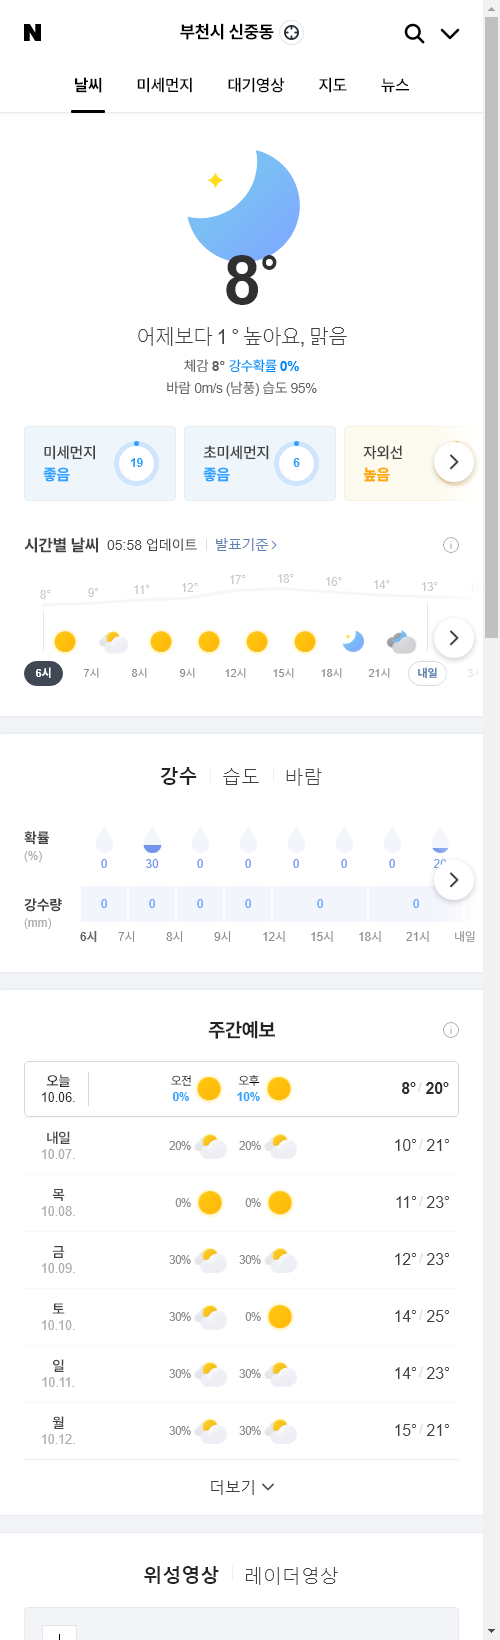
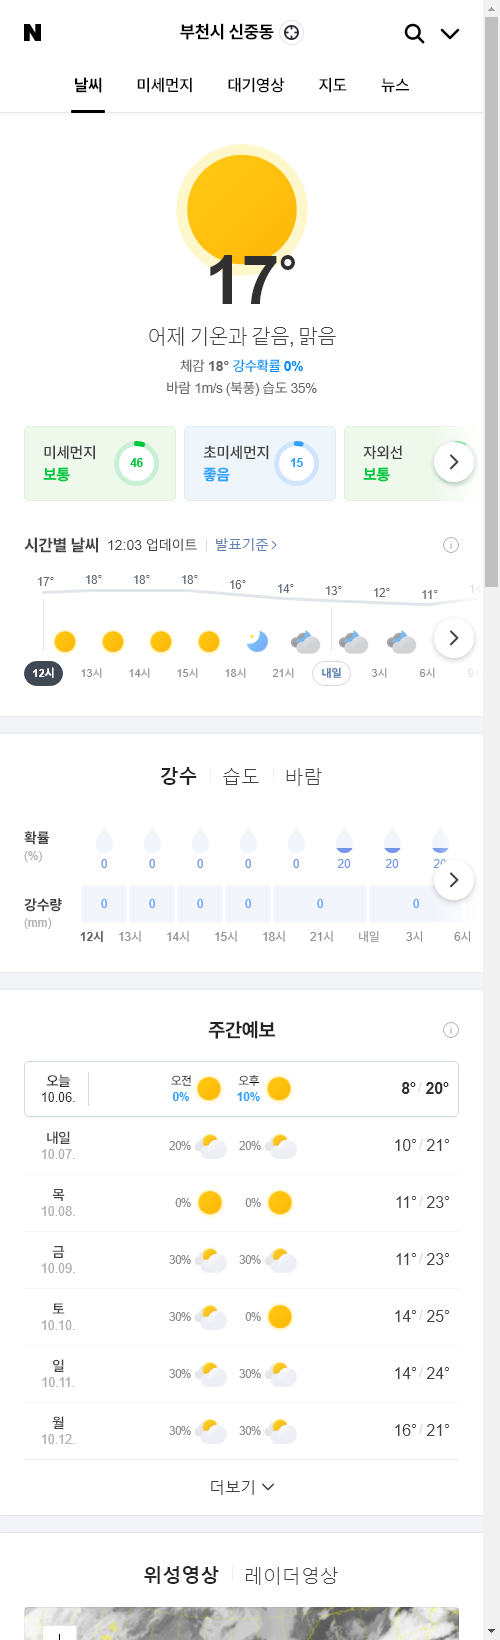
update result

diff --git a/README.md b/README.md
@@ -1,13 +1,13 @@
-##  2020-10-06 06:06:27   화요일 
-##### 날씨   -   어제보다 1 ° 높아요, 맑음
+##  2020-10-06 12:07:34   화요일 
+##### 날씨   -   어제 기온과 같음, 맑음
 <center><img src="../img/naver_weather_week.png"></center>
 ----
 ----
 ##### 지수
 <table border="1" bordercolor="blue" align = "center" >
 <tr align = "right" > <td>Item</td><td>Point</td><td>Diff</td><td>Rate</td><td>Buy</td><td>Sell</td><td>...</td>  </tr>
-<tr align = "right" > <td>KOSPI</td><td>2,358.0</td><td>30.11</td><td><font size="3" color="red" >1.29%</font> </td><td><font size="3" color="black">2,000</font></td><td><font size="3" color="black">3,000</font></td><td>0</td>  </tr>
-<tr align = "right" > <td>KOSDAQ</td><td>858.39</td><td>10.24</td><td><font size="3" color="red" >1.21%</font> </td><td><font size="3" color="black">0</font></td><td><font size="3" color="black">0</font></td><td>0</td>  </tr>
+<tr align = "right" > <td>KOSPI</td><td>2,371.24</td><td>13.24</td><td><font size="3" color="red" >0.56%</font> </td><td><font size="3" color="black">2,000</font></td><td><font size="3" color="black">3,000</font></td><td>0</td>  </tr>
+<tr align = "right" > <td>KOSDAQ</td><td>864.83</td><td>6.44</td><td><font size="3" color="red" >0.75%</font> </td><td><font size="3" color="black">0</font></td><td><font size="3" color="black">0</font></td><td>0</td>  </tr>
 </table>
 ----
 ##### 세계
@@ -15,7 +15,7 @@
 <tr align = "right" > <td>Item</td><td>Point</td><td>Diff</td><td>Rate</td><td>Buy</td><td>Sell</td><td>...</td>  </tr>
 <tr align = "right" > <td>DOW</td><td>28,148.64</td><td>465.83</td><td><font size="3" color="red" >1.68%</font></td><td><font size="3" color="black">0</font></td><td><font size="3" color="black">0</font></td><td>0</td>  </tr>
 <tr align = "right" > <td>NASDAQ</td><td>11,332.49</td><td>257.47</td><td><font size="3" color="red" >2.32%</font></td><td><font size="3" color="black">0</font></td><td><font size="3" color="black">0</font></td><td>0</td>  </tr>
-<tr align = "right" > <td>S&P</td><td>3,408.6</td><td>60.16</td><td><font size="3" color="red" >1.8%</font></td><td><font size="3" color="black">0</font></td><td><font size="3" color="black">0</font></td><td>0</td>  </tr>
+<tr align = "right" > <td>S&P</td><td>3,408.63</td><td>60.19</td><td><font size="3" color="red" >1.8%</font></td><td><font size="3" color="black">0</font></td><td><font size="3" color="black">0</font></td><td>0</td>  </tr>
 <tr align = "right" > <td>SHANHAI</td><td>3,218.05</td><td>-6.31</td><td><font size="3" color="blue" >-0.2%</font></td><td><font size="3" color="black">0</font></td><td><font size="3" color="black">0</font></td><td>0</td>  </tr>
 <tr align = "right" > <td>INDIA</td><td>38,973.7</td><td>276.65</td><td><font size="3" color="red" >0.71%</font></td><td><font size="3" color="black">0</font></td><td><font size="3" color="black">0</font></td><td>0</td>  </tr>
 </table>
@@ -23,31 +23,31 @@
 ##### 시장
 <table border="1" bordercolor="blue" align = "center" >
 <tr align = "right" > <td>Item</td><td>Price</td><td>Diff</td><td>Rate</td><td>Buy</td><td>Sell</td><td>...</td>  </tr>
-<tr align = "right" > <td>USD</td><td>1,160.0</td><td>-8.5</td><td><font size="3" color="blue">-0.73%</font></td><td><font size="3" color="black">1,150</font></td><td><font size="3" color="black">0</font></td><td>0</td>  </tr>
-<tr align = "right" > <td>WTI</td><td>37.05</td><td>-1.67</td><td><font size="3" color="blue">-4.31%</font></td><td><font size="3" color="black">29.0</font></td><td><font size="3" color="black">0</font></td><td>0</td>  </tr>
-<tr align = "right" > <td>GOLD</td><td>1,900.0</td><td>-8.2</td><td><font size="3" color="blue">-0.42%</font></td><td><font size="3" color="black">0</font></td><td><font size="3" color="black">0</font></td><td>0</td>  </tr>
+<tr align = "right" > <td>USD</td><td>1,162.0</td><td>1.6</td><td><font size="3" color="red">0.14%</font></td><td><font size="3" color="black">1,150</font></td><td><font size="3" color="black">0</font></td><td>0</td>  </tr>
+<tr align = "right" > <td>WTI</td><td>39.22</td><td>2.17</td><td><font size="3" color="red">5.85%</font></td><td><font size="3" color="black">29.0</font></td><td><font size="3" color="black">0</font></td><td>0</td>  </tr>
+<tr align = "right" > <td>GOLD</td><td>1,912.0</td><td>12.3</td><td><font size="3" color="red">0.64%</font></td><td><font size="3" color="black">0</font></td><td><font size="3" color="black">0</font></td><td>0</td>  </tr>
 </table>
 ----
 ##### 주가
 <table border="1" bordercolor="blue" align = "center" >
 <tr align = "right" > <td>Item</td><td>Price</td><td>Diff</td><td>Rate</td><td>Purchased</td><td>Sell</td><td>Buy</td>  </tr>
-<tr align = "right" > <td>한국 전력</td><td>20,600</td><td>200</td><td><font size="3" color="red">0.98%</font></td><td>25,720</td><td><font size="3" color="black">30,000</font></td><td><font size="3" color="black">14,000</font></td>  </tr>
-<tr align = "right" > <td>삼성엔지니어.</td><td>10,800</td><td>250</td><td><font size="3" color="red">2.37%</font></td><td>18,935</td><td><font size="3" color="black">20,000</font></td><td><font size="3" color="black">8,000</font></td>  </tr>
-<tr align = "right" > <td>CJ CGV</td><td>22,100</td><td>-350</td><td><font size="3" color="blue">-1.56%</font></td><td>34,895</td><td><font size="3" color="black">36,000</font></td><td><font size="3" color="black">0</font></td>  </tr>
-<tr align = "right" > <td>아모레퍼시픽</td><td>169,000</td><td>5,000</td><td><font size="3" color="red">3.05%</font></td><td>235,350</td><td><font size="3" color="black">240,000</font></td><td><font size="3" color="black">130,000</font></td>  </tr>
-<tr align = "right" > <td>한화</td><td>26,500</td><td>1,350</td><td><font size="3" color="red">5.37%</font></td><td>25,550</td><td><font size="3" color="black">30,000</font></td><td><font size="3" color="black">20,000</font></td>  </tr>
-<tr align = "right" > <td>NAVER</td><td>298,500</td><td>2,000</td><td><font size="3" color="red">0.67%</font></td><td>147,200</td><td><font size="3" color="black">400,000</font></td><td><font size="3" color="black">150,000</font></td>  </tr>
-<tr align = "right" > <td>LG 화학우</td><td>321,000</td><td>500</td><td><font size="3" color="red">0.16%</font></td><td>202,490</td><td><font size="3" color="black">500,000</font></td><td><font size="3" color="black">200,000</font></td>  </tr>
-<tr align = "right" > <td>스튜디오드래.</td><td>84,300</td><td>100</td><td><font size="3" color="red">0.12%</font></td><td>81,243</td><td><font size="3" color="black">100,000</font></td><td><font size="3" color="black">78,000</font></td>  </tr>
-<tr align = "right" > <td>글로벌럭셔리</td><td>12,625</td><td>-25</td><td><font size="3" color="blue">-0.2%</font></td><td>9,630</td><td><font size="3" color="black">15,000</font></td><td><font size="3" color="black">10,000</font></td>  </tr>
-<tr align = "right" > <td>QV미국IT</td><td>23,000</td><td>-120</td><td><font size="3" color="blue">-0.52%</font></td><td>22,010</td><td><font size="3" color="black">30,000</font></td><td><font size="3" color="black">20,000</font></td>  </tr>
-<tr align = "right" > <td>호텔 신라</td><td>75,700</td><td>-400</td><td><font size="3" color="blue">-0.53%</font></td><td>72,800</td><td><font size="3" color="black">100,000</font></td><td><font size="3" color="black">70,000</font></td>  </tr>
-<tr align = "right" > <td>S-Oil</td><td>54,100</td><td>2,500</td><td><font size="3" color="red">4.84%</font></td><td>62,842</td><td><font size="3" color="black">100,000</font></td><td><font size="3" color="black">50,000</font></td>  </tr>
-<tr align = "right" > <td>LG전자</td><td>92,100</td><td>400</td><td><font size="3" color="red">0.44%</font></td><td>82,022</td><td><font size="3" color="black">100,000</font></td><td><font size="3" color="black">60,000</font></td>  </tr>
-<tr align = "right" > <td>지역난방공사</td><td>35,600</td><td>550</td><td><font size="3" color="red">1.57%</font></td><td>43,590</td><td><font size="3" color="black">60,000</font></td><td><font size="3" color="black">30,000</font></td>  </tr>
-<tr align = "right" > <td>KOEDX은행</td><td>5,265</td><td>145</td><td><font size="3" color="red">2.83%</font></td><td>5,155</td><td><font size="3" color="black">6,000</font></td><td><font size="3" color="black">4,500</font></td>  </tr>
-<tr align = "right" > <td>삼성 전자우</td><td>50,700</td><td>200</td><td><font size="3" color="red">0.4%</font></td><td>48,250</td><td><font size="3" color="black">56,000</font></td><td><font size="3" color="black">45,000</font></td>  </tr>
-<tr align = "right" > <td>한화에어로스.</td><td>26,400</td><td>1,000</td><td><font size="3" color="red">3.94%</font></td><td>25,700</td><td><font size="3" color="black">30,000</font></td><td><font size="3" color="black">0</font></td>  </tr>
-<tr align = "right" > <td>한국금융지주</td><td>73,800</td><td>1,300</td><td><font size="3" color="red">1.79%</font></td><td>61,900</td><td><font size="3" color="black">82,000</font></td><td><font size="3" color="black">60,000</font></td>  </tr>
+<tr align = "right" > <td>한국 전력</td><td>20,400</td><td>-200</td><td><font size="3" color="blue">-0.97%</font></td><td>25,720</td><td><font size="3" color="black">30,000</font></td><td><font size="3" color="black">14,000</font></td>  </tr>
+<tr align = "right" > <td>삼성엔지니어.</td><td>10,700</td><td>-100</td><td><font size="3" color="blue">-0.93%</font></td><td>18,935</td><td><font size="3" color="black">20,000</font></td><td><font size="3" color="black">8,000</font></td>  </tr>
+<tr align = "right" > <td>CJ CGV</td><td>21,900</td><td>-200</td><td><font size="3" color="blue">-0.9%</font></td><td>34,895</td><td><font size="3" color="black">36,000</font></td><td><font size="3" color="black">0</font></td>  </tr>
+<tr align = "right" > <td>아모레퍼시픽</td><td>167,500</td><td>-1,500</td><td><font size="3" color="blue">-0.89%</font></td><td>235,350</td><td><font size="3" color="black">240,000</font></td><td><font size="3" color="black">130,000</font></td>  </tr>
+<tr align = "right" > <td>한화</td><td>26,300</td><td>-200</td><td><font size="3" color="blue">-0.75%</font></td><td>25,550</td><td><font size="3" color="black">30,000</font></td><td><font size="3" color="black">20,000</font></td>  </tr>
+<tr align = "right" > <td>NAVER</td><td>300,500</td><td>2,000</td><td><font size="3" color="red">0.67%</font></td><td>147,200</td><td><font size="3" color="black">400,000</font></td><td><font size="3" color="black">150,000</font></td>  </tr>
+<tr align = "right" > <td>LG 화학우</td><td>323,500</td><td>2,500</td><td><font size="3" color="red">0.78%</font></td><td>202,490</td><td><font size="3" color="black">500,000</font></td><td><font size="3" color="black">200,000</font></td>  </tr>
+<tr align = "right" > <td>스튜디오드래.</td><td>84,300</td><td>0</td><td><font size="3" color="black">0.0%</font></td><td>81,243</td><td><font size="3" color="black">100,000</font></td><td><font size="3" color="black">78,000</font></td>  </tr>
+<tr align = "right" > <td>글로벌럭셔리</td><td>12,750</td><td>125</td><td><font size="3" color="red">0.99%</font></td><td>9,630</td><td><font size="3" color="black">15,000</font></td><td><font size="3" color="black">10,000</font></td>  </tr>
+<tr align = "right" > <td>QV미국IT</td><td>23,260</td><td>260</td><td><font size="3" color="red">1.13%</font></td><td>22,010</td><td><font size="3" color="black">30,000</font></td><td><font size="3" color="black">20,000</font></td>  </tr>
+<tr align = "right" > <td>호텔 신라</td><td>74,700</td><td>-1,000</td><td><font size="3" color="blue">-1.32%</font></td><td>72,800</td><td><font size="3" color="black">100,000</font></td><td><font size="3" color="black">70,000</font></td>  </tr>
+<tr align = "right" > <td>S-Oil</td><td>54,000</td><td>-100</td><td><font size="3" color="blue">-0.18%</font></td><td>62,842</td><td><font size="3" color="black">100,000</font></td><td><font size="3" color="black">50,000</font></td>  </tr>
+<tr align = "right" > <td>LG전자</td><td>95,500</td><td>3,400</td><td><font size="3" color="red">3.69%</font></td><td>82,022</td><td><font size="3" color="black">100,000</font></td><td><font size="3" color="black">60,000</font></td>  </tr>
+<tr align = "right" > <td>지역난방공사</td><td>35,800</td><td>200</td><td><font size="3" color="red">0.56%</font></td><td>43,590</td><td><font size="3" color="black">60,000</font></td><td><font size="3" color="black">30,000</font></td>  </tr>
+<tr align = "right" > <td>KOEDX은행</td><td>5,265</td><td>0</td><td><font size="3" color="black">0.0%</font></td><td>5,155</td><td><font size="3" color="black">6,000</font></td><td><font size="3" color="black">4,500</font></td>  </tr>
+<tr align = "right" > <td>삼성 전자우</td><td>51,100</td><td>400</td><td><font size="3" color="red">0.79%</font></td><td>48,250</td><td><font size="3" color="black">56,000</font></td><td><font size="3" color="black">45,000</font></td>  </tr>
+<tr align = "right" > <td>한화에어로스.</td><td>26,150</td><td>-250</td><td><font size="3" color="blue">-0.95%</font></td><td>25,700</td><td><font size="3" color="black">30,000</font></td><td><font size="3" color="black">0</font></td>  </tr>
+<tr align = "right" > <td>한국금융지주</td><td>74,000</td><td>200</td><td><font size="3" color="red">0.27%</font></td><td>61,900</td><td><font size="3" color="black">82,000</font></td><td><font size="3" color="black">60,000</font></td>  </tr>
 </table>
 ----
